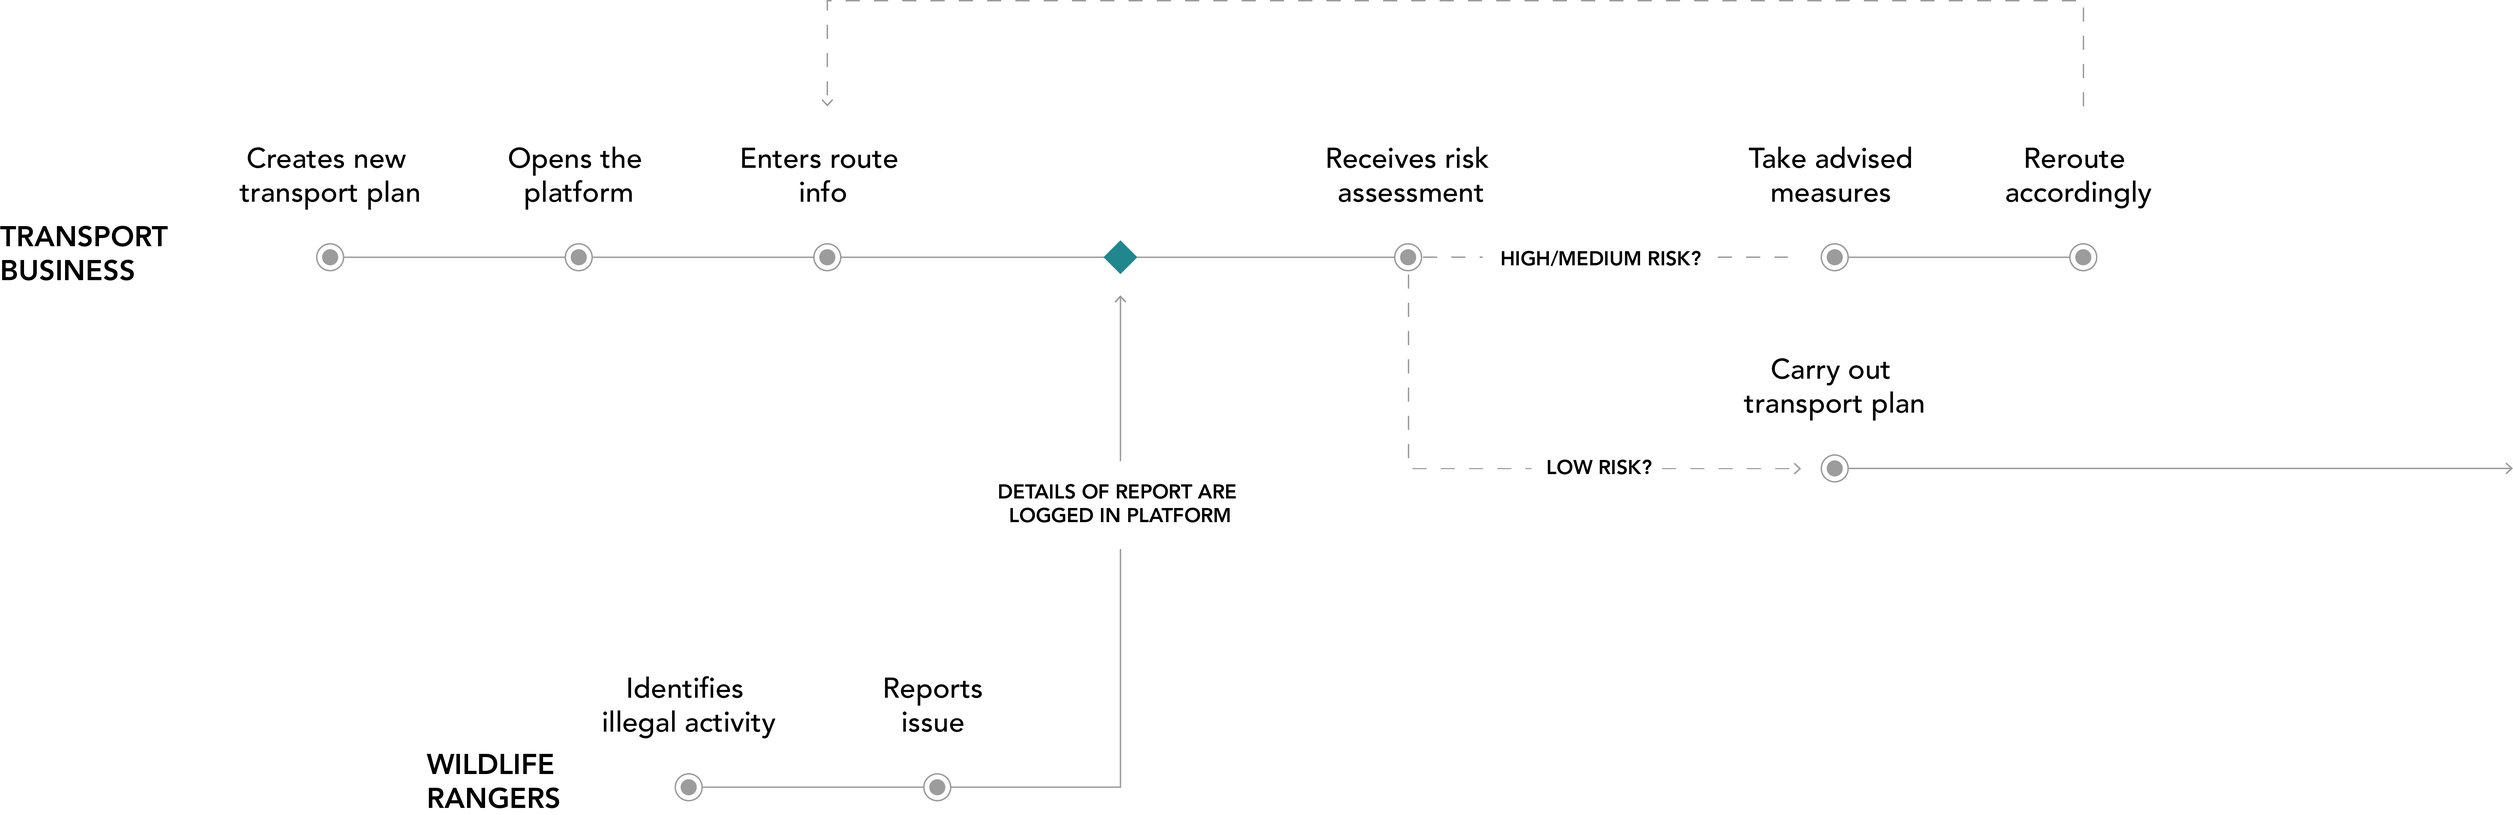
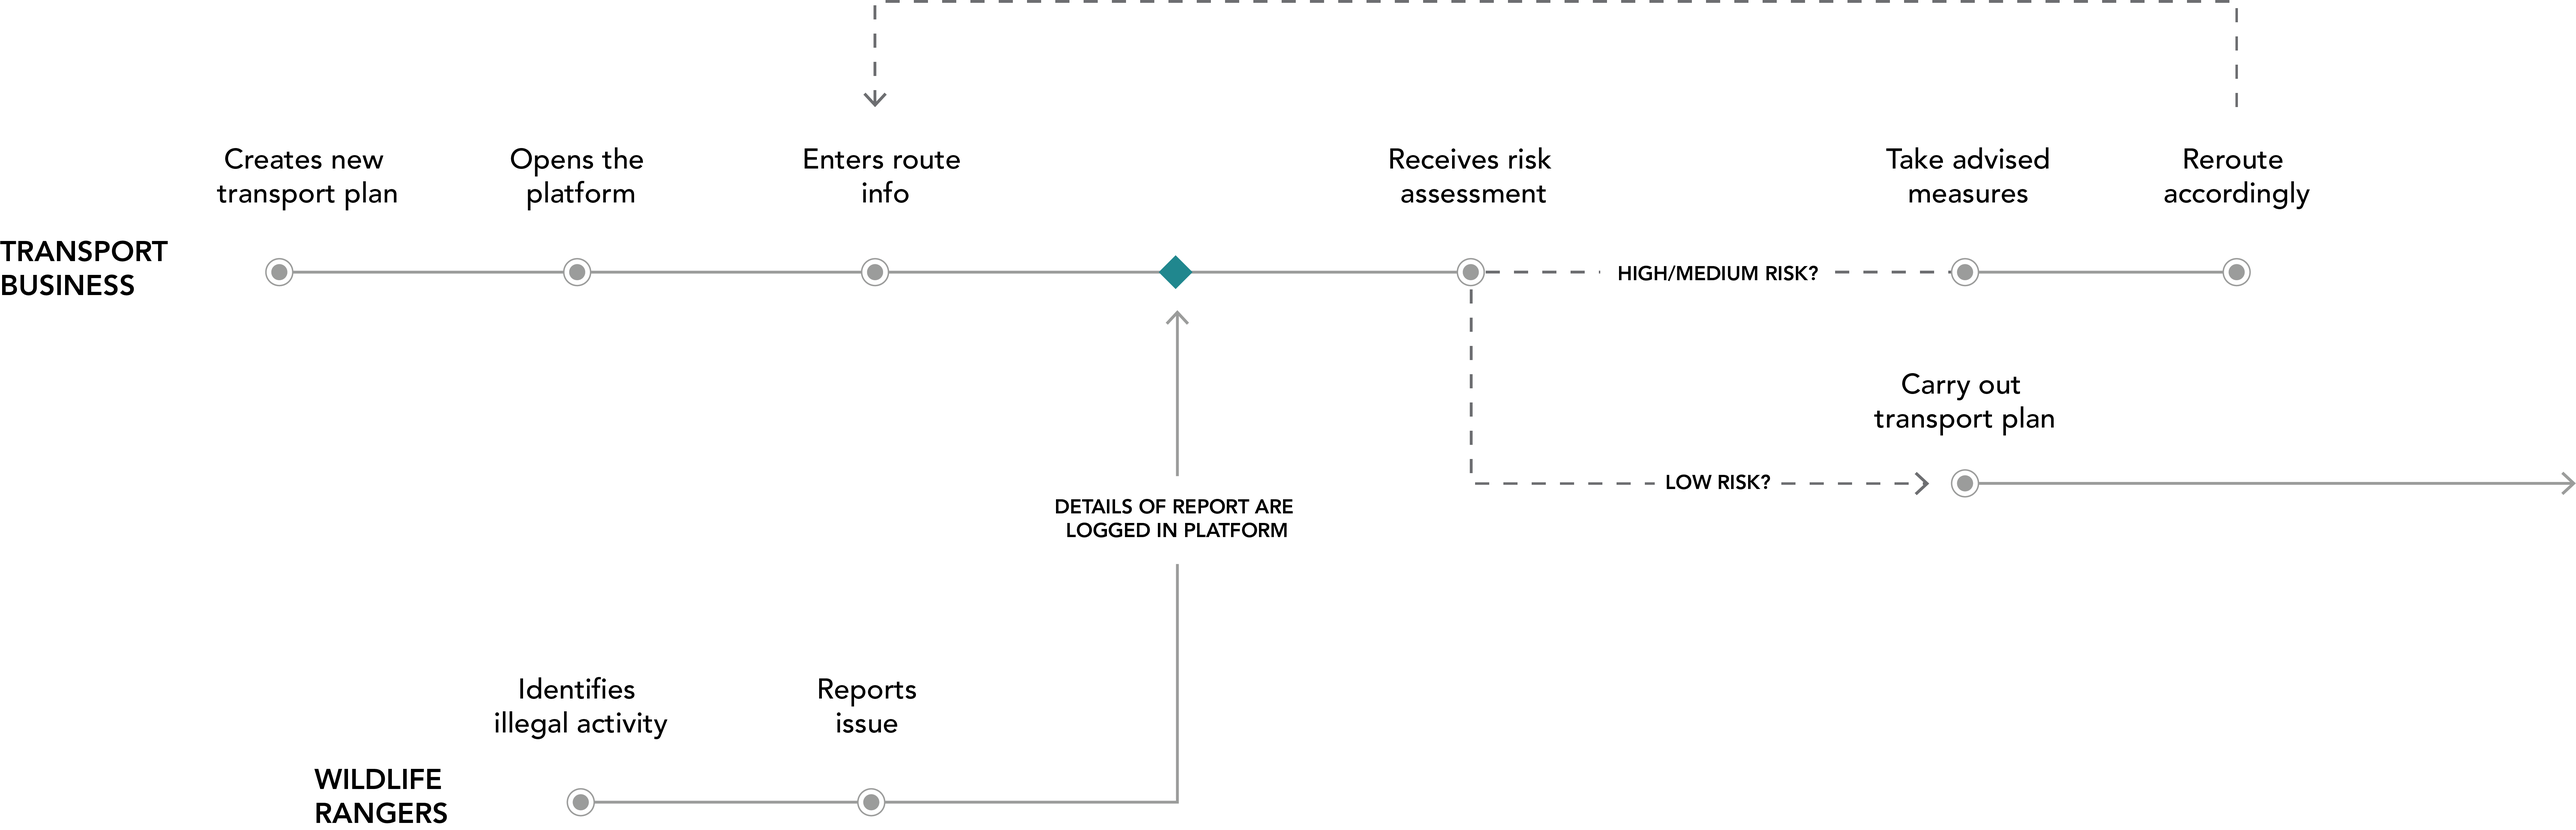
making arrows bigger in image

diff --git a/wildlife.html b/wildlife.html
@@ -95,12 +95,13 @@
 
                         <div class="content__heading">Product goal</div>
                         <p>Taskforce Wildlife aims to collect real-time reports from onsite rangers to inform transport businesses on which routes traffickers have comprised and how they can make their cargo more resilient. </p>  
+                    </div>
 
                         <div class="col-md-12 mb-4 mt-4">
                                 <img class="img-fluid rounded lazyload blur" src="https://kristyleung.me/assets/img/wildlife_pics/userjourney.png" data-src="https://kristyleung.me/assets/img/wildlife_pics/userjourney_min.png" alt="Taskforce Wildlife User Journey"/>
                                 <figcaption class="figure-caption mt-4">The platform allows rangers and businesses to work together to ensure the cargo is resilient to trafficking.</figcaption>
                             </div>
-        
+                    <div class="col-md-10 offset-md-1 mb-4 mt-4">
                         <div class="content__heading">The design</div>
                         <div class="content__smallheading">Starting with clarity</div>
                         <p>After asking users to enter information about their cargo, the Risk Calculator creates a tailored risk report for that route and shipment. The page needed prompt action from the businesses without alarming them with an overload of warnings but also without downplaying the severity or urgency of the issue. To achieve this, we made sure the platform was focused on clarity and brevity. This was imperative for Taskforce Wildlife to curb trafficking at a global scale. 
@@ -111,7 +112,8 @@
 
                         <div class="content__smallheading">Providing accessibility</div>
                         <p>Rangers needed to be able to access Taskforce Wildlife in rural locations and precarious conditions to send reports in real time. It needed to be lightweight, yet reliable. This meant working closely with developers to create a design consisting of a component set that was fluid across all screen sizes and browser versions.</p>
-                    </div>
+                 </div>
+                   
 
                     <div class="col-md-10 offset-md-1 mb-4 mt-4">
                         <div class="content__heading">The retrospective</div>        
